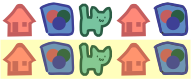
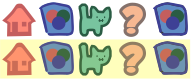
Masih aneh miwmiw

diff --git a/index.html b/index.html
@@ -165,18 +165,11 @@
 
 
 				    <div class="tab-pane fade in" id="tab-kelulusan">
-						
-							i can see the pain living in your eyes~~~~~
-					  	
-					  	<br>
-						MEONG MEONG
+						<div id="tingkat-kelulusan" style="min-width: 92%; max-width: 92%; margin: 0 0;"></div></center>
 				    </div>
 
 					<div class="tab-pane fade in" id="tab-partisipasi">
-						
-							you would never ask me why, my heart is so disguised, i just can't live a lie anymore~~~~~
-					  	
-					  	<br>
+						<div id="tingkat-partisipasi" style="min-width: 92%; max-width: 92%; margin: 0 0;"></div></center>
 						MIAWMIAW
 				    </div>
 	 	
@@ -186,8 +179,8 @@
 				<center>
 					<div>
 						<a class="btn-kucing" href="#tab-overview" data-toggle="tab"><img src="assets/img/overview-button.png" alt="kucing so cute" height="78" width="82"></a>
-						<a class="btn-kucing" href="#tab-kelulusan" data-toggle="tab"><img src="assets/img/overview-button.png" alt="kucing so cute" height="78" width="82"></a>
-						<a class="btn-kucing" href="#tab-partisipasi" data-toggle="tab"><img src="assets/img/overview-button.png" alt="kucing so cute" height="78" width="82"></a>
+						<a class="btn-kucing" href="#tab-kelulusan" data-toggle="tab"><img src="assets/img/tingkat-kelulusan.png" alt="kucing so cute" height="78" width="82"></a>
+						<a class="btn-kucing" href="#tab-partisipasi" data-toggle="tab"><img src="assets/img/tingkat-partisipasi.png" alt="kucing so cute" height="78" width="82"></a>
 					</div>
 				</center>
 
@@ -211,6 +204,11 @@
 					            <span>About</span>
 					         </a>
 					    </li>
+					    <li>
+						     <a class="portfolio smoothScroll" href="#ending">
+					            <span>Ending</span>
+					         </a>
+					    </li>
 					</ul>
 					</div>
 				</div>
@@ -226,17 +224,10 @@
 				
 			</div>
 
-		<div class="fill blue">
-
-
-		</div>
-
-
-		<!-- Transition Section -->
 			<!--<div data-anchor-target="#myCarousel"
 			data-bottom-top="transform: translate3d(0px, 50%, 0px);"
 			data-top-bottom="transform: translate3d(0px, -50%, 0px);">-->
-			<div id="meong" class="fill black-color">
+			<div id="ending" class="fill black-color">
 				<div class="separator purple marquee" id="sep" data-center="opacity: 1" data-300="opacity: 0" data-anchor-target="#sep">
 				</div>
 				<br><br><br><br><br><br><br><br>
@@ -248,6 +239,7 @@
 
     <!-- jQuery -->
     <script src="assets/js/jquery.js"></script>
+    <script src="http://code.jquery.com/ui/1.11.1/jquery-ui.min.js"></script>
 
     <!-- Bootstrap Core JavaScript -->
     <script src="assets/js/bootstrap.min.js"></script>
@@ -280,7 +272,23 @@
     <script src="http://code.highcharts.com/maps/modules/drilldown.js"></script>
 	<script src="assets/js/data/data-ipm.js"></script>
 	<script src="assets/js/data/overview-cities.js"></script>
+
+	<!--Tingkat Kelulusan-->
+	<script src="assets/js/data/view-belumlulus-sd.js"></script>
+	<script src="assets/js/data/view-lulus-sd.js"></script>
+	<script src="assets/js/data/view-lulus-smp.js"></script>
+	<script src="assets/js/data/view-lulus-sma.js"></script>
+	<script src="assets/js/data/view-lulus-pt.js"></script>
+	<script src="assets/js/data/tingkat-kelulusan.js"></script>
+
+	<!--Angka Partisipasi-->
+	<script src="assets/js/data/view-partisipasi-sd.js"></script>
+	<script src="assets/js/data/view-partisipasi-smp.js"></script>
+	<script src="assets/js/data/view-partisipasi-sma.js"></script>
+	<script src="assets/js/data/tingkat-partisipasi.js"></script>
+
 	<script src="assets/js/data/overview-map.js"></script>
+	<script src="assets/js/data/barchart.js"></script>
 	<script src="http://code.highcharts.com/mapdata/countries/id/id-all.js"></script>
 
 	<!-- Script to Activate the Highcharts -->

diff --git a/assets/js/data/overview-map.js b/assets/js/data/overview-map.js
@@ -1,5 +1,41 @@
 $(function () {
 	//Instanciate the map
+    /*function pointClick() {
+                    $div = $('<div></div>')
+                        .dialog({
+                            title: this.nama_provinsi,
+                            width: 400,
+                            height: 300
+                        });
+
+                window.chart = new Highcharts.Chart({
+                    chart: {
+                        renderTo: $div[0],
+                        type: 'pie',
+                        width: 370,
+                        height: 240
+                    },
+                    title: {
+                        text: null
+                    },
+                    series: [{
+                        name: 'Votes',
+                        data: [{
+                            name: 'Obama',
+                            color: '#0200D0',
+                            y: parseInt(columns[3][row], 10)
+                        }, {
+                            name: 'McCain',
+                            color: '#C40401',
+                            y: parseInt(columns[4][row], 10)
+                        }],
+                        dataLabels: {
+                            format: '<b>{point.name}</b> {point.percentage:.1f}%'
+                        }
+                    }]
+                });
+            }*/
+
 	$('#overview-map').highcharts('Map', {
 		chart: {
 			animation: true,
@@ -78,41 +114,14 @@ $(function () {
             joinBy: ['hc-key','kode_provinsi'],
             name: 'peta',
             showInLegend: false,
-            events: {
-                        click: function (e) {
-
-                        window.chart = new Highcharts.Chart({
-                            chart: {
-                                type: 'pie',
-                                width: 370,
-                                height: 240
-                            },
-                            title: {
-                                text: null
-                            },
-                            series: [{
-                                name: 'Votes',
-                                data: [{
-                                    name: 'Obama',
-                                    color: '#0200D0',
-                                    y: parseInt(columns[3][row], 10)
-                                }, {
-                                    name: 'McCain',
-                                    color: '#C40401',
-                                    y: parseInt(columns[4][row], 10)
-                                }],
-                                dataLabels: {
-                                    format: '<b>{point.name}</b> {point.percentage:.1f}%'
-                                }
-                            }]
-                        });
-                        }
-                    }
-        }/*, {
+            /*events: {
+                        click: pointClick
+                    }*/
+        }, {
             type: 'mappoint',
             name: 'Cities',
             data: IPMCities,
-        }*/]
+        }]
 	});
      chart = $('#overview-map').highcharts();
 });

diff --git a/assets/js/data/tingkat-kelulusan.js b/assets/js/data/tingkat-kelulusan.js
@@ -1,0 +1,101 @@
+$(function () {
+    var nama_prov = [];
+    $.each(jumlahLulusSD, function(i,v){
+        nama_prov.push(v.nama_provinsi);
+    });
+
+    var val_belumlulussd = [];
+    $.each(jumlahBelumLulusSD, function(i,v){
+        val_belumlulussd.push(v.persen_tidak_lulus_SD*100);
+    });
+
+    var val_lulussd = [];
+    $.each(jumlahLulusSD, function(i,v){
+        val_lulussd.push(v.persen_lulus_SD*100);
+    });
+
+    var val_lulussmp = [];
+    $.each(jumlahLulusSMP, function(i,v){
+        val_lulussmp.push(v.persen_lulus_SMP*100);
+    });
+
+    var val_lulussma = [];
+    $.each(jumlahLulusSMA, function(i,v){
+        val_lulussma.push(v.persen_lulus_SMA*100);
+    });
+
+    var val_luluspt = [];
+    $.each(jumlahLulusPT, function(i,v){
+        val_luluspt.push(v.persen_lulus_PT*100);
+    });
+
+
+    $('#tingkat-kelulusan').highcharts({
+        chart: {
+            type: 'column'
+        },
+        title: {
+            text: 'Tingkat Kelulusan Pendidikan Masyarakat Indonesia'
+        },
+        xAxis: {
+            categories: ['Aceh','Sumut','Sumbar','Riau','Jambi','Sumsel','Bengkulu','Lampung','Babel','Riau','Jakarta','Jabar','Jateng','Yogyakarta','Jatim','Banten','Bali','NTB','NTT','Kalbar','Kalteng','Kalsel','Kaltim','Sulut','Sulteng','Sulsel','Sultra','Gorontalo','Sulbar','Maluku','Malut','Pabar','Papua'],
+            title: {
+                text: null
+            }
+        },
+        yAxis: {
+            min: 0,
+            title: {
+                text: 'Tingkat Kelulusan'
+            },
+            labels: {
+                overflow: 'justify'
+            }
+        },
+        tooltip: {
+            valueSuffix: ' %'
+        },
+        plotOptions: {
+            column: {
+                stacking: 'normal',
+                dataLabels: {
+                    enabled: true,
+                    color: (Highcharts.theme && Highcharts.theme.dataLabelsColor) || 'white',
+                    style: {
+                        textShadow: '0 0 3px black'
+                    }
+                }
+            }
+        },
+        legend: {
+            layout: 'vertical',
+            align: 'right',
+            verticalAlign: 'top',
+            x: -40,
+            y: 80,
+            floating: true,
+            borderWidth: 1,
+            backgroundColor: ((Highcharts.theme && Highcharts.theme.legendBackgroundColor) || '#FFFFFF'),
+            shadow: true
+        },
+        credits: {
+            enabled: false
+        },
+        series: [{
+            name: 'Belum Lulus SD',
+            data: val_belumlulussd
+        }, {
+            name: 'Lulus SD',
+            data: val_lulussd
+        }, {
+            name: 'Lulus SMP',
+            data: val_lulussmp
+        }, {
+            name: 'Lulus SMA',
+            data: val_lulussma
+        }, {
+            name: 'Lulus PT',
+            data: val_luluspt
+        }]
+    });
+});

diff --git a/assets/js/data/tingkat-partisipasi.js b/assets/js/data/tingkat-partisipasi.js
@@ -1,0 +1,69 @@
+$(function () {
+
+    var val_partisipasisd = [];
+    $.each(partisipasiSD, function(i,v){
+        val_partisipasisd.push(v.persen_partisipasi_murni_sd*100);
+    });
+
+    var val_partisipasismp = [];
+    $.each(partisipasiSMP, function(i,v){
+        val_partisipasismp.push(v.persen_partisipasi_murni_smp*100);
+    });
+
+    var val_partisipasisma = [];
+    $.each(partisipasiSMA, function(i,v){
+        val_partisipasisma.push(v.persen_partisipasi_murni_sma*100);
+    });
+
+
+    $('#tingkat-partisipasi').highcharts({
+        chart: {
+            type: 'column'
+        },
+        title: {
+            text: 'Tingkat Partisipasi Masyarakat Indonesia'
+        },
+        xAxis: {
+            categories: ['Aceh','Sumut','Sumbar','Riau','Jambi','Sumsel','Bengkulu','Lampung','Babel','Riau','Jakarta','Jabar','Jateng','Yogyakarta','Jatim','Banten','Bali','NTB','NTT','Kalbar','Kalteng','Kalsel','Kaltim','Sulut','Sulteng','Sulsel','Sultra','Gorontalo','Sulbar','Maluku','Malut','Pabar','Papua'],
+            title: {
+                text: null
+            }
+        },
+        yAxis: {
+            min: 0,
+            title: {
+                text: 'Tingkat Partisipasi'
+            },
+            labels: {
+                overflow: 'justify'
+            }
+        },
+        tooltip: {
+            valueSuffix: ' orang'
+        },
+        legend: {
+            layout: 'vertical',
+            align: 'right',
+            verticalAlign: 'top',
+            x: -40,
+            y: 80,
+            floating: true,
+            borderWidth: 1,
+            backgroundColor: ((Highcharts.theme && Highcharts.theme.legendBackgroundColor) || '#FFFFFF'),
+            shadow: true
+        },
+        credits: {
+            enabled: false
+        },
+        series: [{
+            name: 'SD',
+            data: val_partisipasisd
+        }, {
+            name: 'SMP',
+            data: val_partisipasismp
+        }, {
+            name: 'SMA',
+            data: val_partisipasisma
+        }]
+    });
+});

diff --git a/assets/js/data/view-partisipasi-sma.js b/assets/js/data/view-partisipasi-sma.js
@@ -1,5 +1,5 @@
 $(function () {
-	parisipasiSMA = [
+	partisipasiSMA = [
 		{
 			"kode_provinsi":"id-ac",
 			"nama_provinsi":"Prov. Nanggroe Aceh Darussalam",
